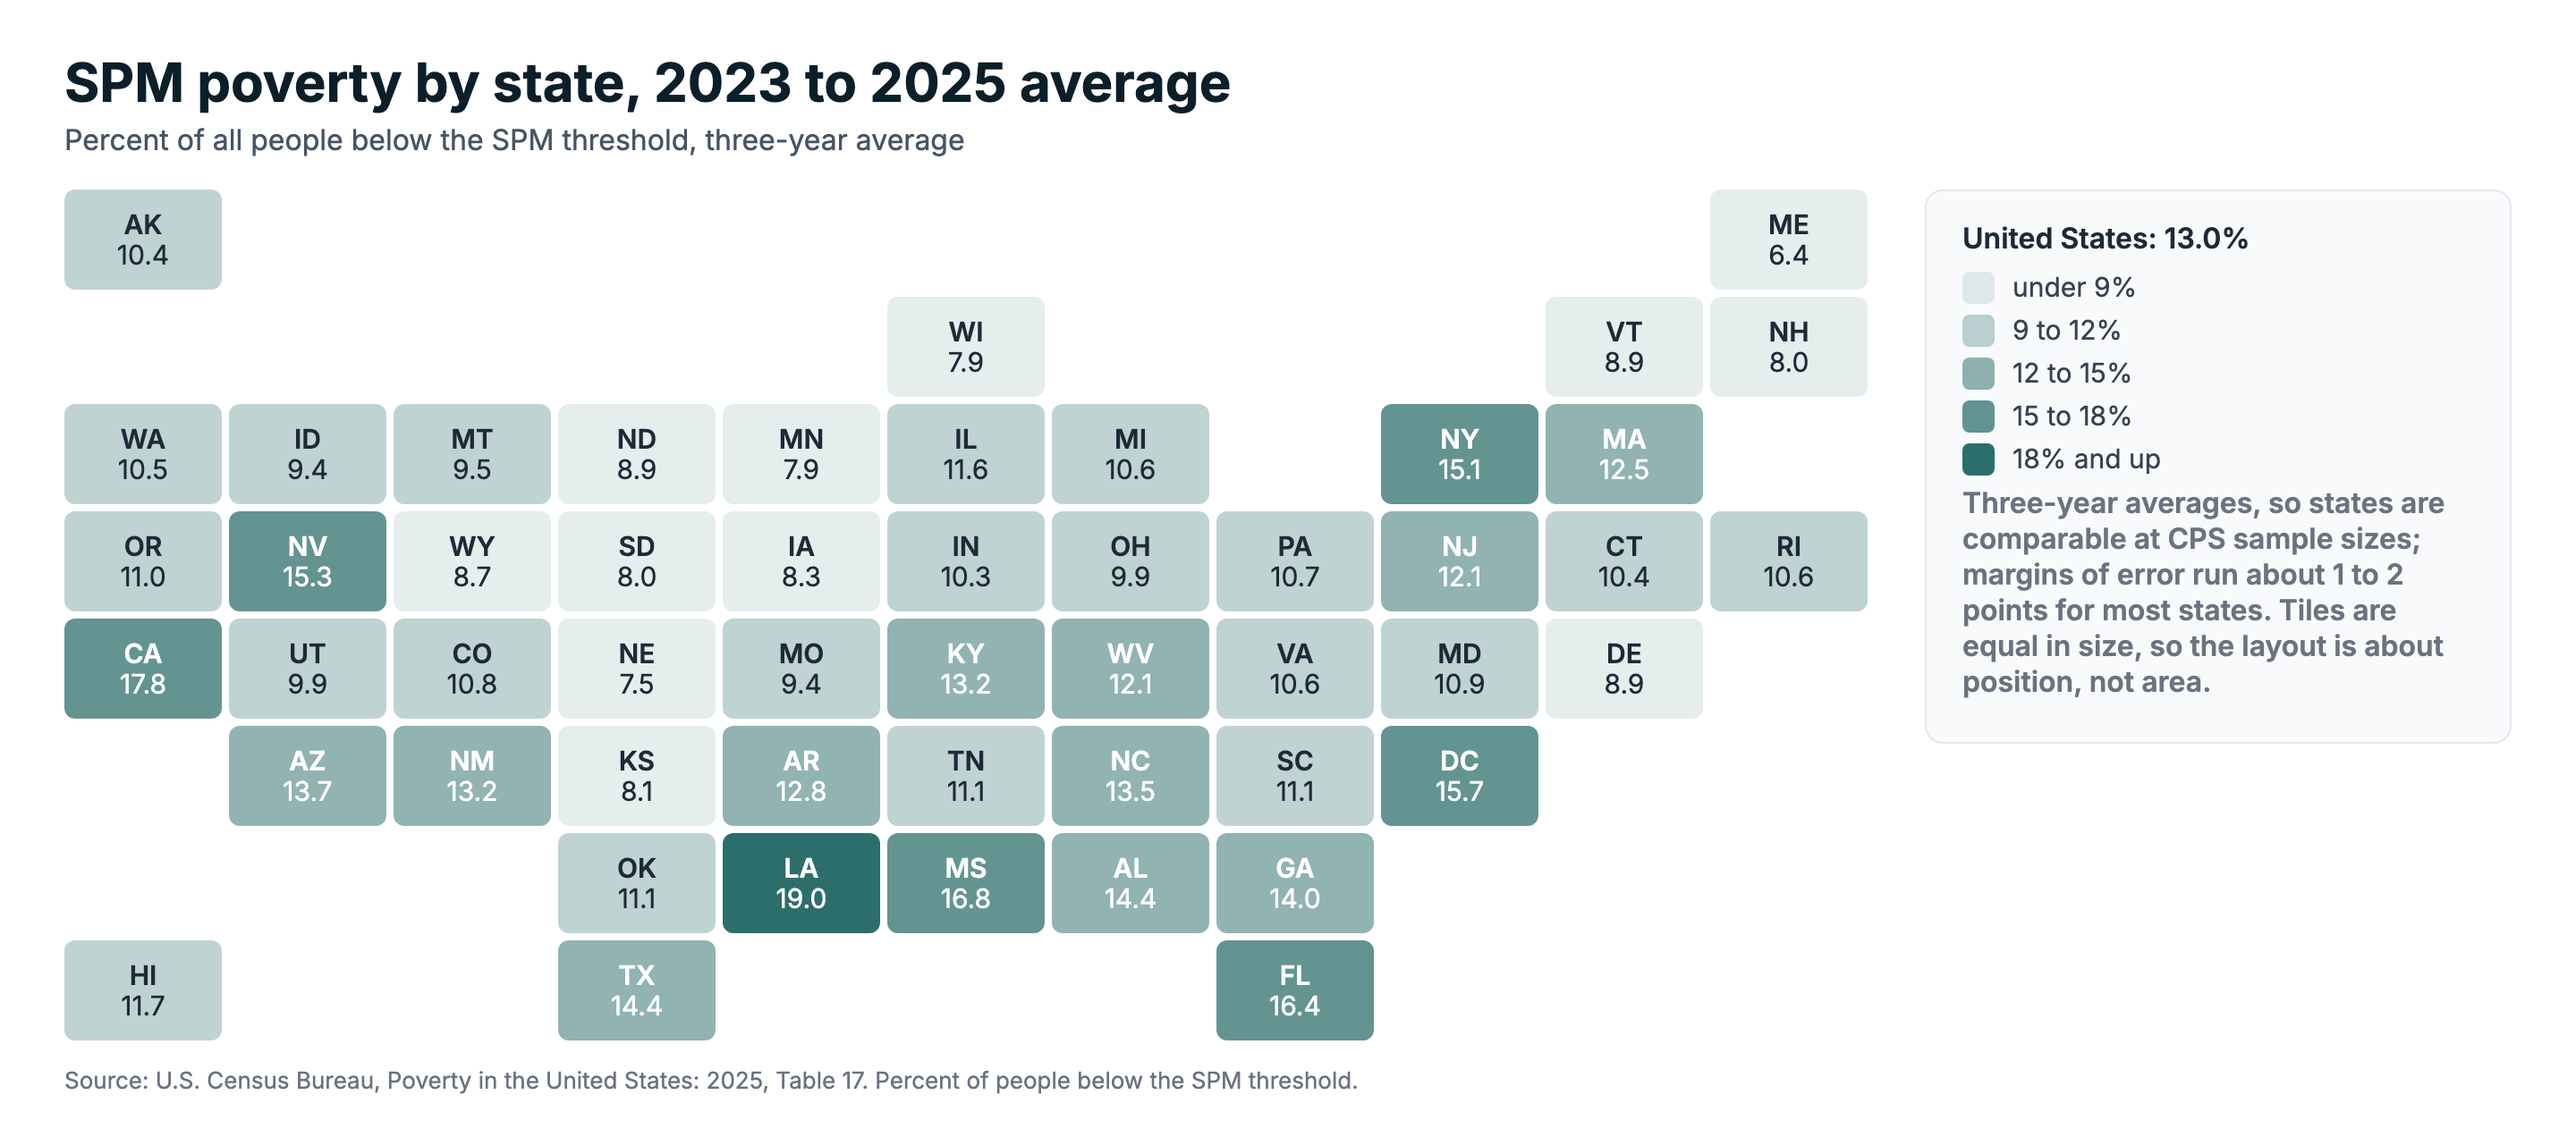
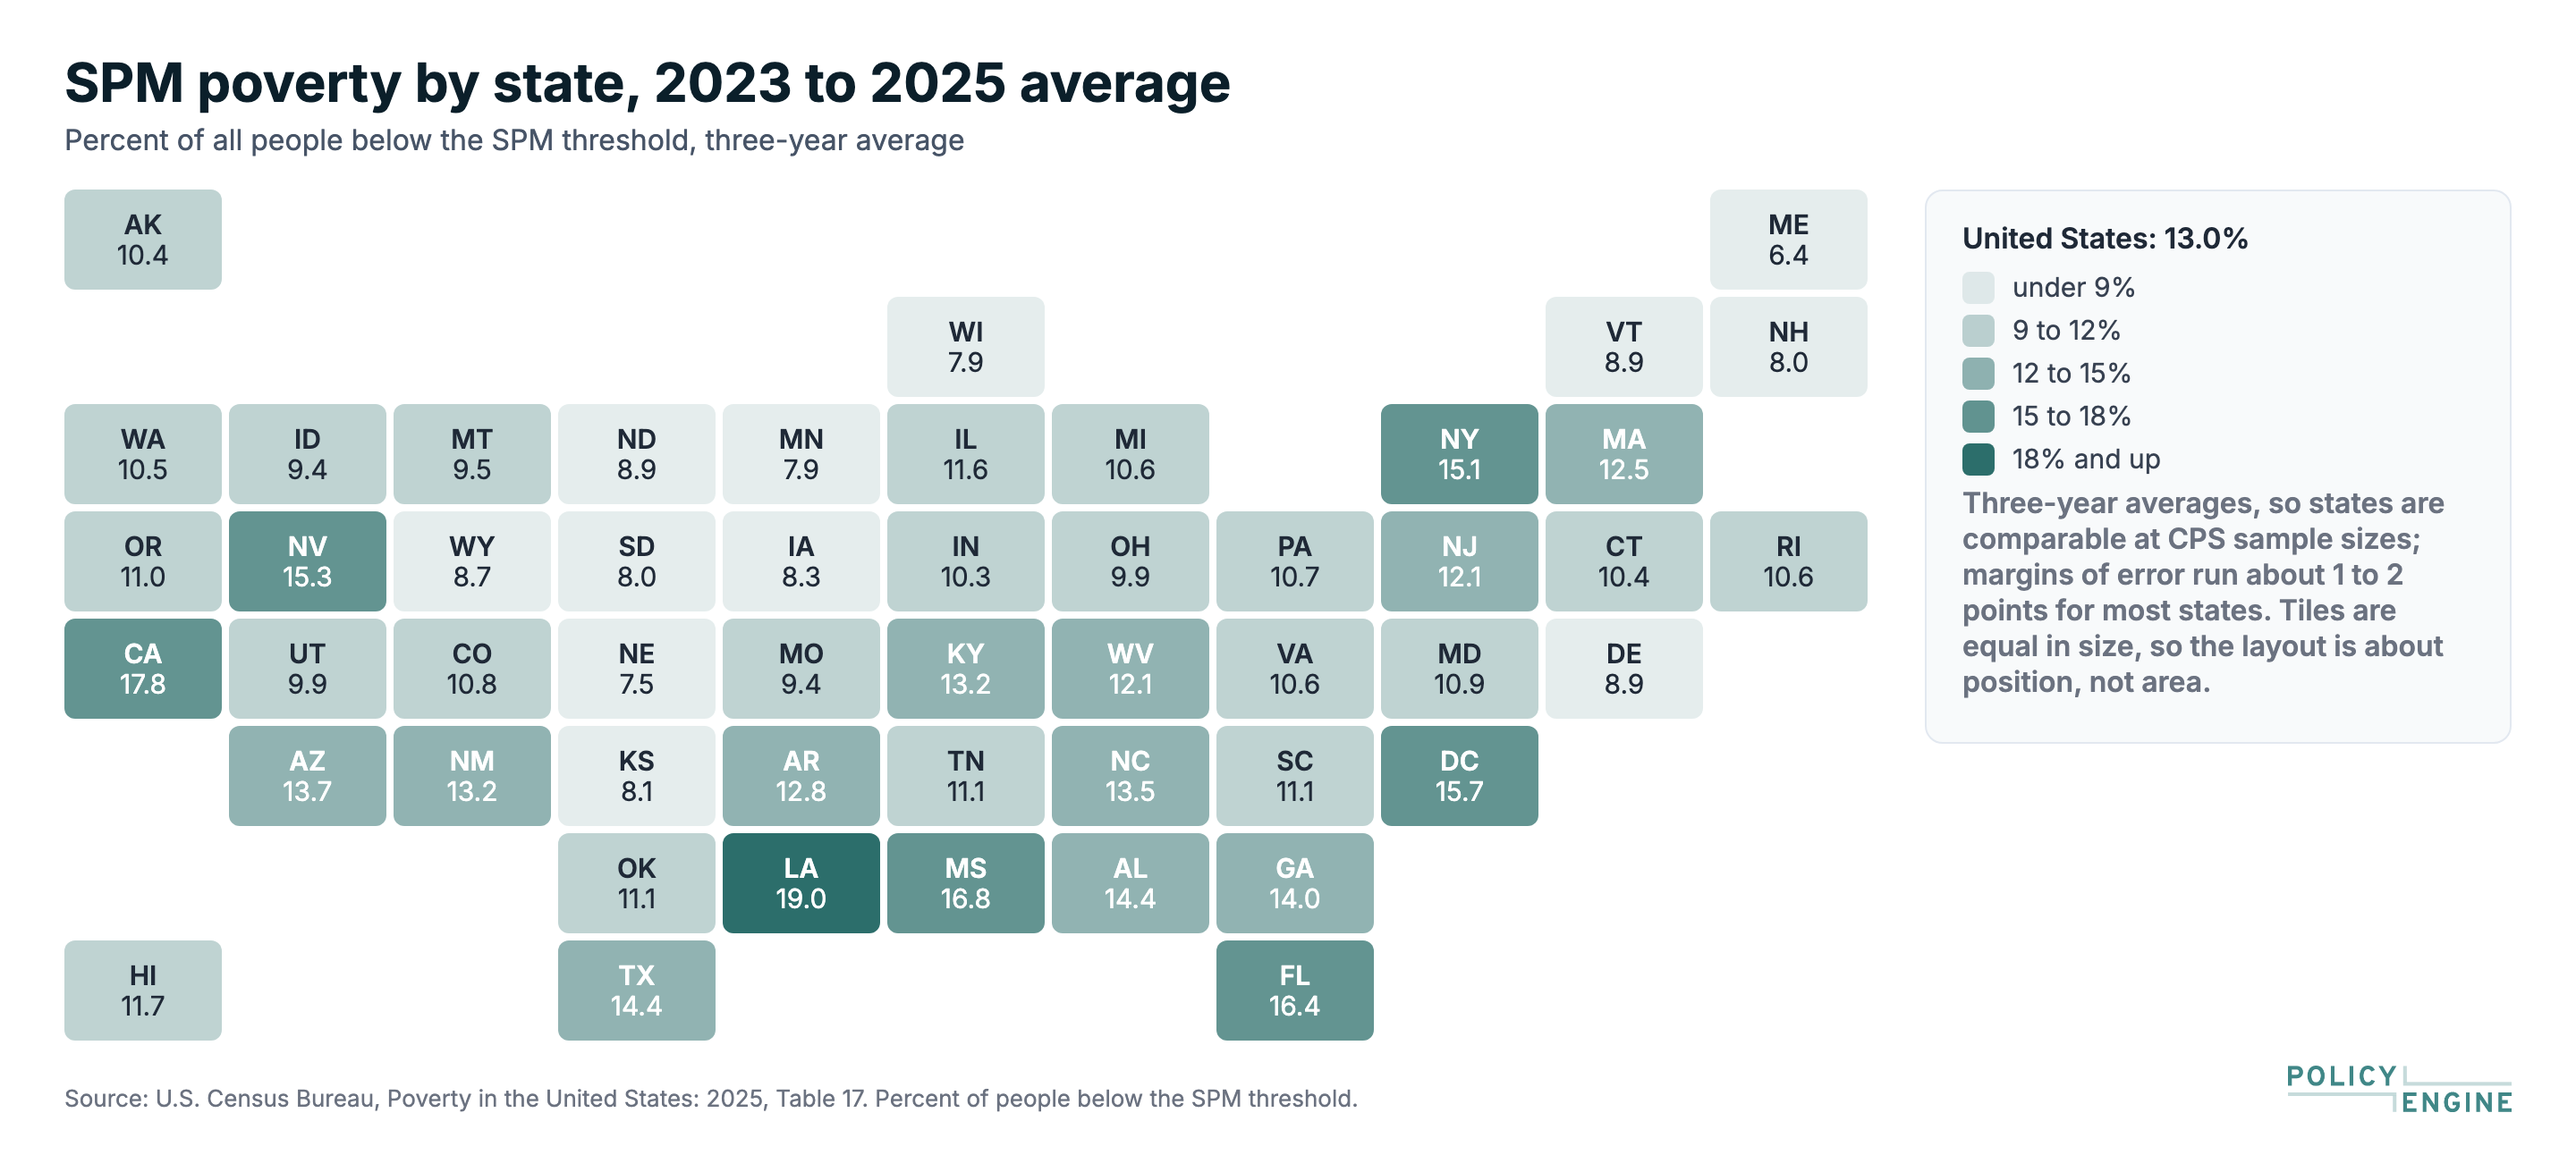
2025 SPM post: title, subtitle, 2024 for every age row, watermarked maps, calculator CTA
- Title spells out the Supplemental Poverty Measure; new subtitle; dated
  September 18.
- The by-age table now has 2024 for the finer age groups, computed from
  the 2025 CPS ASEC public-use file with replicate-weight standard errors,
  marked and explained in a footnote (Census's restated figures stay for
  the four published groups).
- Both state maps regenerated with the PolicyEngine wordmark.
- Inline link to the SPM threshold calculator where Census adapts the
  threshold to each family; closing paragraph links the calculator and its
  methods paper, followed by a CTA button.

diff --git a/app/src/data/posts/articles/2025-spm-poverty-at-2024-thresholds.md b/app/src/data/posts/articles/2025-spm-poverty-at-2024-thresholds.md
@@ -10,7 +10,7 @@ BLS [produces the thresholds](https://www.bls.gov/pir/spmhome.htm) from the Cons
 
 Shelter costs differ by housing situation, so BLS publishes three thresholds. For 2025 they are $41,701 for renters, $41,323 for owners with a mortgage and $34,326 for owners without one, up 6.3, 5.3 and 4.4 percent from 2024.[^1] BLS [attributes](https://www.bls.gov/pir/spm/spm_thresholds_2025.htm) part of the growth to prices: the index for the threshold's components rose 3.4 percent in 2025, against 2.6 percent for CPI-U. The remainder reflects the spending data, as the five-year window moved forward a year.
 
-Census adapts the national threshold to each family. A three-parameter equivalence scale adjusts it for the number of adults and children, and a geographic adjustment moves the housing share with local rents, using five-year American Community Survey median rents for two-bedroom units in 341 metropolitan and nonmetropolitan areas ([technical documentation](https://www2.census.gov/programs-surveys/supplemental-poverty-measure/datasets/spm/spm_techdoc.pdf), section 4.2).
+Census adapts the national threshold to each family. A three-parameter equivalence scale adjusts it for the number of adults and children, and a geographic adjustment moves the housing share with local rents, using five-year American Community Survey median rents for two-bedroom units in 341 metropolitan and nonmetropolitan areas ([technical documentation](https://www2.census.gov/programs-surveys/supplemental-poverty-measure/datasets/spm/spm_techdoc.pdf), section 4.2). Our [SPM threshold calculator](/us/spm-calculator) applies the same steps to any family and area.
 
 The base moves with what families spend in real terms, so the threshold rises when middle-income families spend more on necessities even if prices hold still. Census updates the official poverty thresholds by CPI-U alone: the 2025 official threshold for two adults and two children is $32,649, up 2.6 percent from $31,812 ([Table 11](https://www2.census.gov/programs-surveys/demo/tables/p60/290/table_11_spm_thresh.xlsx)).
 
@@ -18,18 +18,18 @@ The base moves with what families spend in real terms, so the threshold rises wh
 
 Census prints rates for children, adults 18 to 64 and people 65 and over. We computed finer age groups from the [2026 CPS ASEC public-use file](https://www2.census.gov/programs-surveys/cps/datasets/2026/march/asecpub26csv.zip), with standard errors from its 160 [replicate weights](https://cps.ipums.org/cps/repwt.shtml).
 
-| SPM poverty rate, percent | 2024 (P60-290) |          2025 | Change, points |
+| SPM poverty rate, percent |       2024[^2] |          2025 | Change, points |
 | ------------------------- | -------------: | ------------: | -------------: |
 | All people                |           13.0 | 13.11 (±0.19) |           +0.1 |
-| Under 4                   |                | 14.13 (±0.57) |                |
-| Under 6                   |                | 14.15 (±0.52) |                |
+| Under 4                   | 14.95 (±0.58)† | 14.13 (±0.57) |          −0.8† |
+| Under 6                   | 14.50 (±0.50)† | 14.15 (±0.52) |          −0.4† |
 | Under 18                  |           13.5 | 13.39 (±0.34) |           −0.1 |
-| 6 to 17                   |                | 13.06 (±0.39) |                |
+| 6 to 17                   | 12.84 (±0.34)† | 13.06 (±0.39) |          +0.2† |
 | 18 to 64                  |           12.2 | 12.28 (±0.20) |           +0.1 |
 | 65 and over               |           15.1 | 15.38 (±0.32) |           +0.2 |
-| 75 and over               |                | 16.57 (±0.47) |                |
+| 75 and over               | 16.49 (±0.48)† | 16.57 (±0.47) |          +0.1† |
 
-Children under 6 have higher rates than older children, and people 75 and over have the highest rate of any group. Census restated 2024 on Vintage 2025 population controls in this report, which moves the 2024 child rate to 13.5 from the 13.4 in its [August working paper](https://www.census.gov/library/working-papers/2026/demo/sehsd-wp2026-17.html).
+Children under 6 have higher rates than older children, and people 75 and over have the highest rate of any group. The point estimate for children under 4 fell 0.8 points, with standard errors of 0.6 points on each year's figure, and the rate for children 6 to 17 rose 0.2. Census restated 2024 on Vintage 2025 population controls in this report, which moves the 2024 child rate to 13.5 from the 13.4 in its [August working paper](https://www.census.gov/library/working-papers/2026/demo/sehsd-wp2026-17.html).
 
 ## By housing tenure
 
@@ -74,6 +74,10 @@ The published and anchored series answer different questions. BLS designs the SP
 - Price indexes: BLS [CPI-U](https://data.bls.gov/timeseries/CUUR0000SA0) and [C-CPI-U](https://data.bls.gov/timeseries/SUUR0000SA0).
 - Code and outputs, in the [spm-threshold-paper repository](https://github.com/PolicyEngine/spm-threshold-paper/pull/8): `replicate_and_anchor.py` (replication and the anchored recomputation), `state_age_anchored.py` (states and detailed ages, with replicate-weight standard errors), `state_tile_map.py` (both maps), and the JSON and CSV results they produce.
 
-[spm-calculator](/us/spm-calculator) computes the 2025 threshold for any family and area, and projects later years.
+The [SPM threshold calculator](/us/spm-calculator) computes the 2025 threshold for any family and area and projects it forward; its [methods paper](/us/spm-calculator/paper) documents how.
+
+<div style="text-align: center; margin: 24px 0;"><a class="cta-button" href="/us/spm-calculator">Compute your SPM threshold →</a></div>
+
+[^2]: Census publishes 2024 rates for all people, children, adults 18 to 64 and people 65 and over, restated on Vintage 2025 population controls. For the finer age groups, marked †, we computed 2024 from the [2025 CPS ASEC public-use file](https://www2.census.gov/programs-surveys/cps/datasets/2025/march/asecpub25csv.zip), which carries the earlier weights, with standard errors from its replicate weights. On that file the four published groups come to 12.93, 13.35, 12.16 and 14.95 percent, 0.1 to 0.2 points below the restated figures, so the † changes sit on a slightly different basis from the others.
 
 [^1]: Table 11 of P60-290 prints the 2024 renter threshold as $37,231, which is BLS's corrected 2023 value; the corrected 2024 renter threshold is $39,220, the base for the 6.3 percent growth BLS reports for 2025. We use the BLS value, and the 2025 thresholds in the public-use microdata match BLS. We reported the discrepancy to Census.
